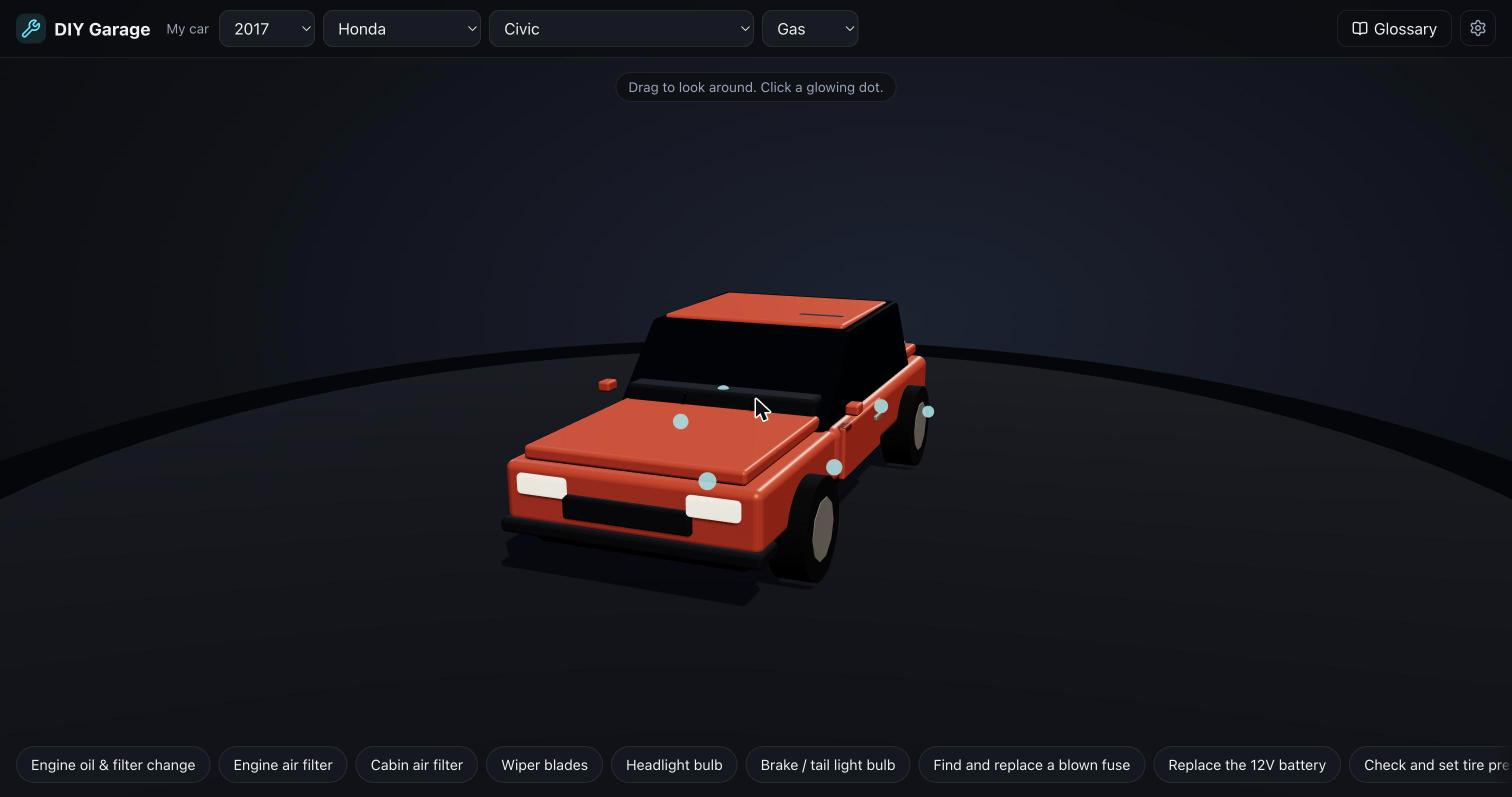
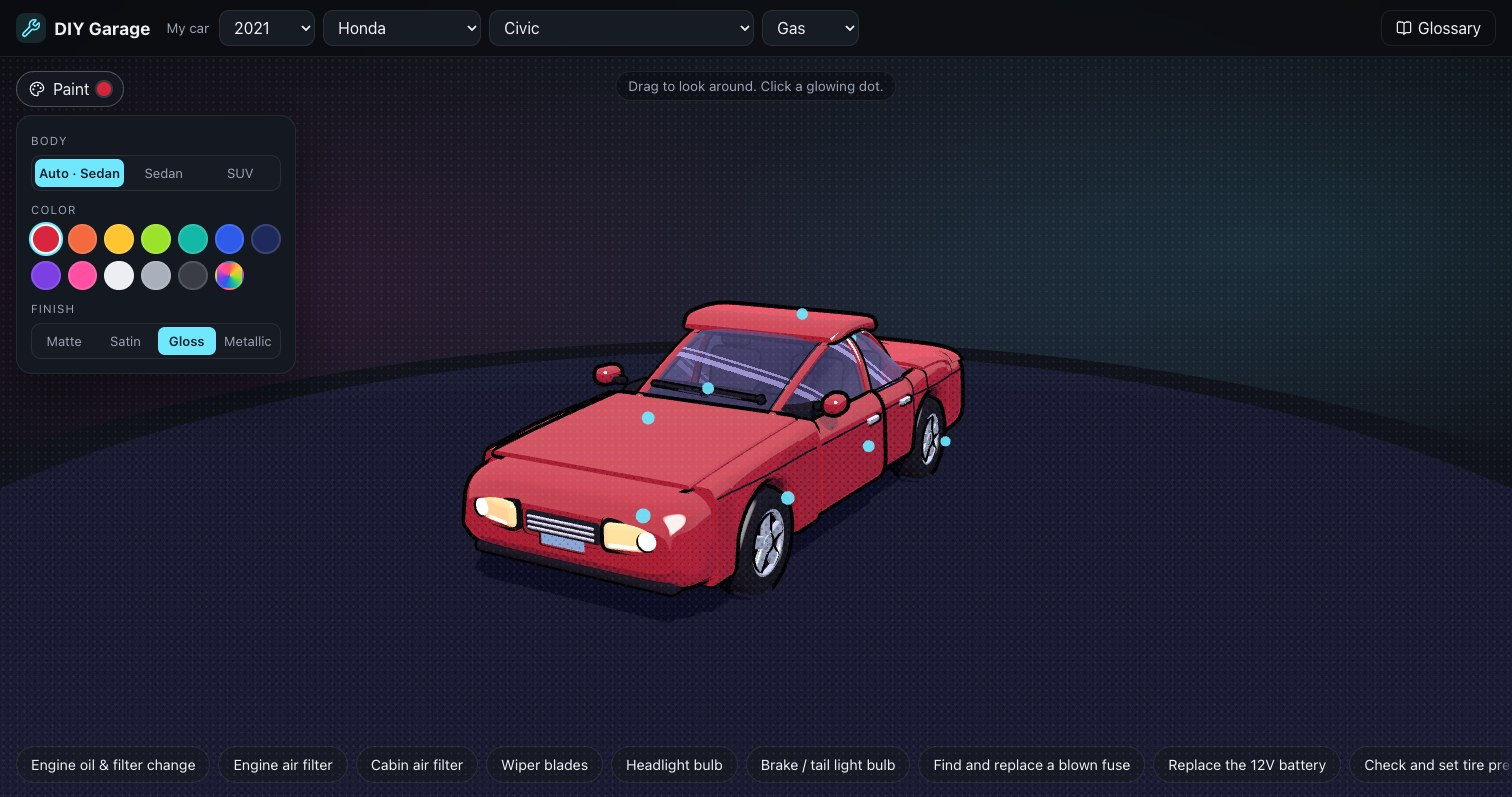
README: refresh demo GIF and screenshots for the comic-style cars

diff --git a/README.md b/README.md
@@ -6,13 +6,13 @@ Click a part of a stylized 3D car, see the repairs you can safely do yourself, a
 
 Purely client-side: Vite + TypeScript + Three.js, no backend, no database.
 
-![Clicking quick fixes opens the hood and trunk, then the glossary searches every job](docs/demo.gif)
+![Switching to a blue metallic SUV in the Paint menu, then opening the hood, running the wipers, lifting the liftgate and searching the glossary](docs/demo.gif)
 
 | Pick a part, get the job | Search everything you can fix |
 |---|---|
-| ![Oil change steps, tools and cautions beside the open engine bay](docs/repair-panel.jpg) | ![Glossary filtered to fuse-related jobs](docs/glossary.jpg) |
+| ![Oil change steps, tools and cautions beside the SUV's open engine bay](docs/repair-panel.jpg) | ![Glossary filtered to fuse-related jobs](docs/glossary.jpg) |
 
-![The car at rest with glowing dots on each clickable part](docs/overview.jpg)
+![Inked red sedan with glowing dots on each clickable part and the Paint menu open](docs/overview.jpg)
 
 ## Run
 
